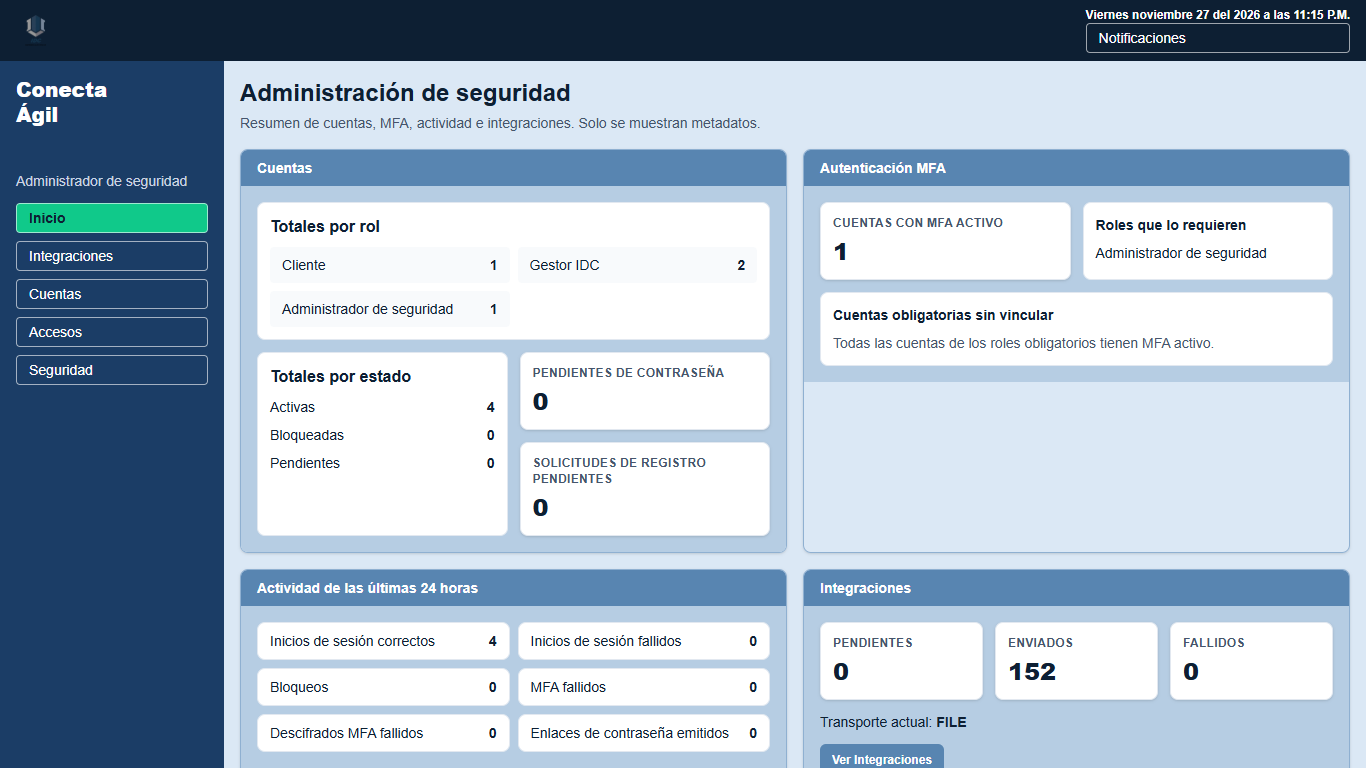
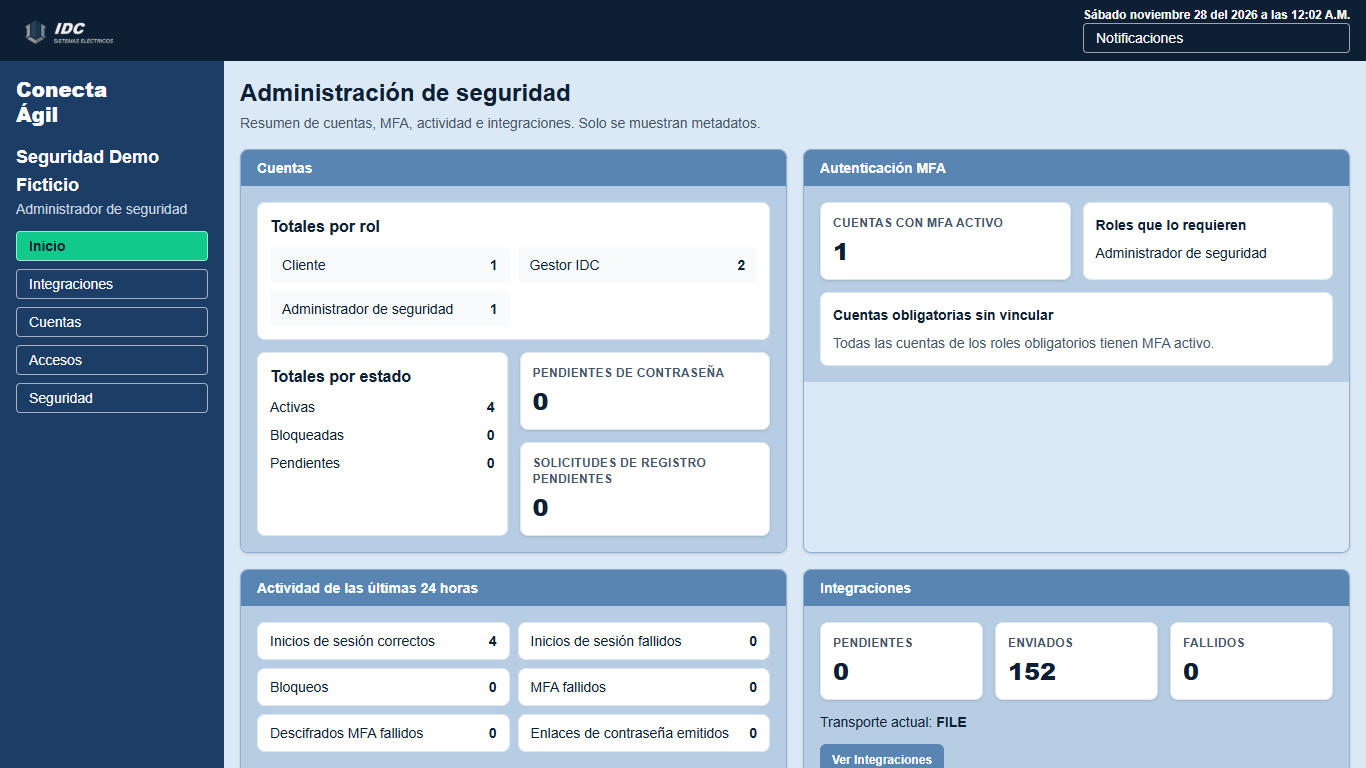
A9: capturas y reporte

Changed region(s): [[0.0, 0.1875, 0.1537, 0.5312], [0.7994, 0.0, 0.9839, 0.0625], [0.0, 0.0312, 0.0922, 0.0625]]

diff --git a/docs/reportes/PASO_A9.md b/docs/reportes/PASO_A9.md
@@ -1,0 +1,38 @@
+# Paso A9 — Aviso de privacidad y capturas
+
+## Alcance implementado
+
+- Se publicó `/privacidad` con el texto del borrador de IDC, versión `0.1-borrador`, fecha y franja de revisión. Los marcadores `[CONFIRMAR]` y `[ACTUALIZAR]` se conservan y resaltan.
+- El portal muestra el resumen, enlace al aviso, casilla y aceptación deshabilitada hasta marcarla. Una versión aceptada anterior vuelve a pedir consentimiento sin modificar los Gates.
+- El registro público exige el consentimiento también en el API y conserva la versión aceptada en `account_requests` mediante la migración 011 (`schemaVersion=11`).
+- El Inicio del administrador muestra la versión y conteos de aceptaciones como metadatos.
+- Se corrigieron el logo y el nombre de usuario en el marco local, se volvió a tomar la captura 05 y se agregó la captura 22b del cliente, sin notas internas.
+- Se actualizaron las regresiones dependientes de la versión del aviso y del schemaVersion.
+
+## Validación
+
+Validación completa en una copia temporal aislada, creada sin `.env.local`; las variables de Zoho y correo se forzaron a transporte `file`.
+
+| Comprobación | Resultado |
+|---|---:|
+| `npm ci` | Correcto |
+| `npm run lint` | Correcto, sin advertencias |
+| `npx tsc --noEmit` | Correcto |
+| `npm run plantillas:check` | 5 DOCX y F-01 válidos |
+| `npm run build` | Correcto |
+| `npm run test:e2e:isolated` | 894 ✅ / 0 ❌; incluye migraciones 010/011 |
+| Suite `supervisor-a9-aviso.mjs` | 16 ✅ / 0 ❌ |
+| `npm run capturas` | 255 ✅ / 0 ❌; 23 PNG validados |
+| Build final en OneDrive | Correcto |
+| `npm run db:migrate` en OneDrive | `schemaVersion=11`; no se ejecutó seed |
+| `http://localhost:3140/api/health` | HTTP 200, `schemaVersion=11` |
+| `http://localhost:3140/privacidad` | HTTP 200 |
+
+Las 23 capturas se revisaron visualmente. La 05 muestra el aviso y consentimiento; la 22b muestra semáforo, retroalimentación y “Le toca a”, sin notas internas. No se leyó `.env.local` ni se contactó a Zoho.
+
+## Estado
+
+- Rama: `paso-a9`, creada desde `desarrollo` en `fb2b5c5`.
+- Commit de implementación: `01b2f64` (`A9: aviso de privacidad y aceptación versionada`).
+- A9 queda 🟡, pendiente de revisión del supervisor.
+- Sin push ni merge.
